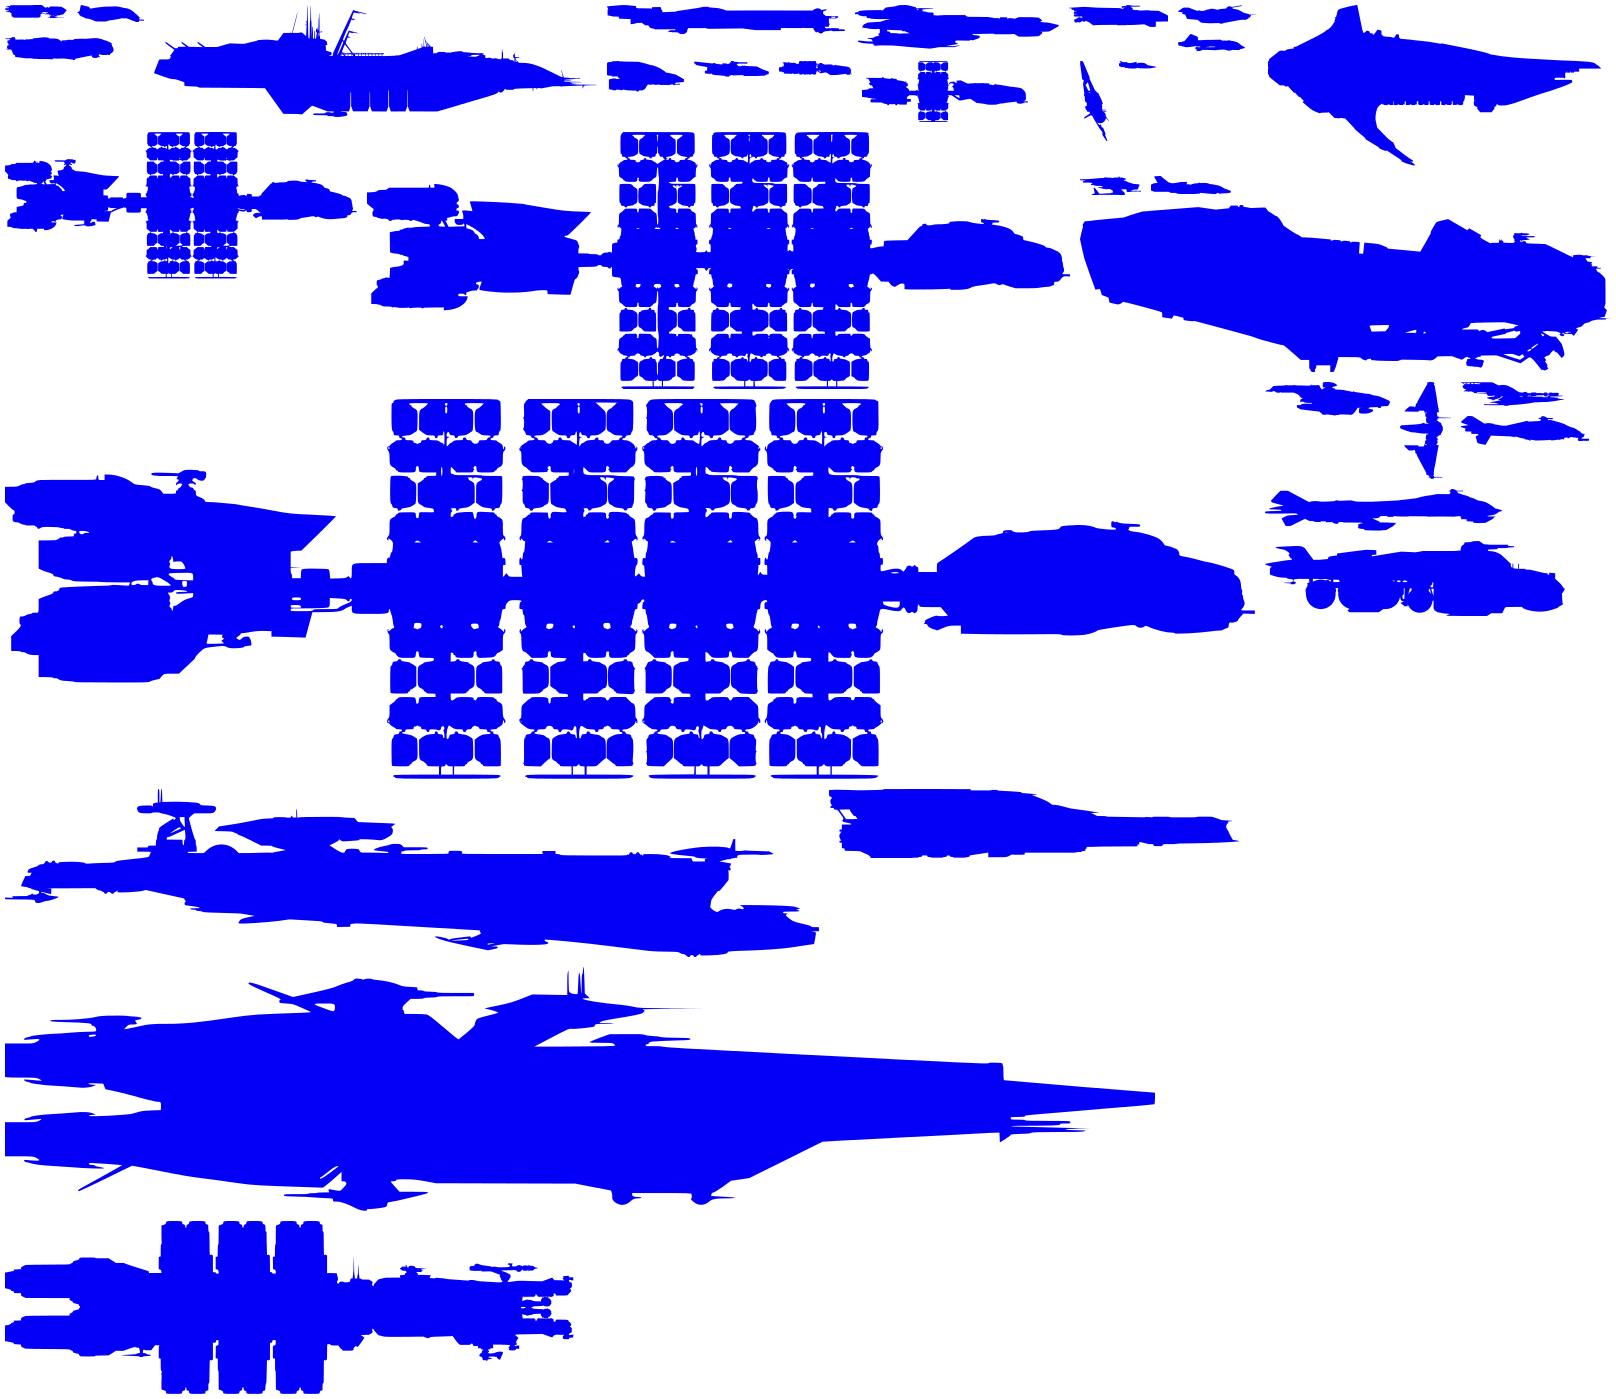
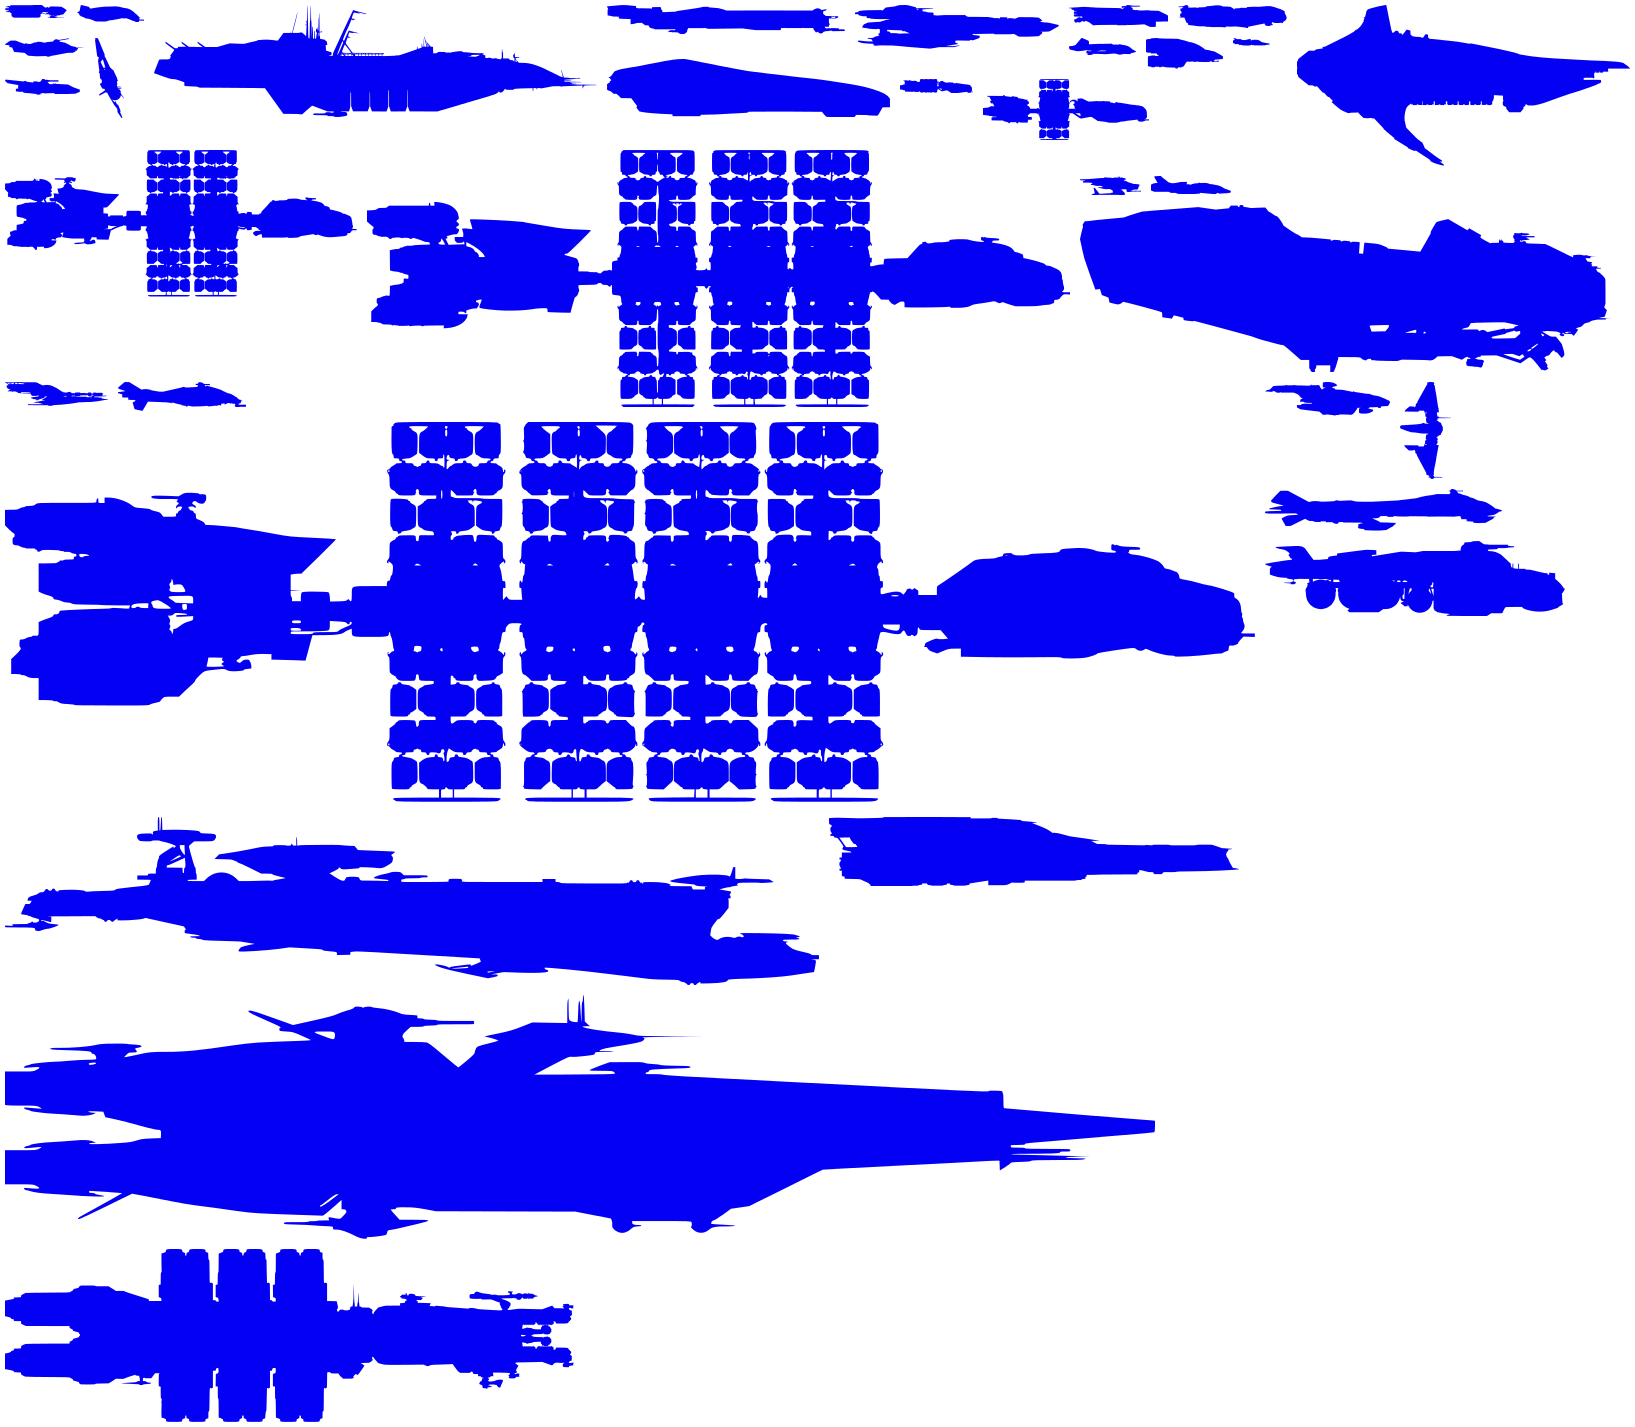
Added Genesis Starliner

diff --git a/content/styles/Ships.css b/content/styles/Ships.css
@@ -6,6 +6,7 @@
     display:inline-block;
     float:left;
 }
+
 .Aurora {
     width: 62px;
     height: 13px;
@@ -45,97 +46,103 @@
 .Freelancer {
     width: 109px;
     height: 23px;
-    background-position: -5px -37px;
+    background-position: -1178px -5px;
+}
+
+.Genesis {
+    width: 283px;
+    height: 58px;
+    background-position: -607px -59px;
 }
 
 .Gladiator {
     width: 80px;
     height: 19px;
-    background-position: -1178px -5px;
+    background-position: -5px -38px;
 }
 
 .Gladius {
     width: 67px;
     height: 17px;
-    background-position: -1178px -34px;
+    background-position: -1069px -38px;
 }
 
 .Herald {
     width: 77px;
     height: 31px;
-    background-position: -607px -61px;
+    background-position: -1146px -38px;
 }
 
 .Hornet {
     width: 75px;
     height: 16px;
-    background-position: -694px -61px;
+    background-position: -5px -79px;
 }
 
 .Hull-A {
     width: 73px;
     height: 14px;
-    background-position: -779px -61px;
+    background-position: -900px -79px;
 }
 
 .Hull-B {
     width: 166px;
     height: 61px;
-    background-position: -862px -61px;
+    background-position: -983px -79px;
 }
 
 .Hull-C {
     width: 352px;
     height: 152px;
-    background-position: -5px -132px;
+    background-position: -5px -150px;
 }
 
 .Hull-D {
     width: 703px;
     height: 262px;
-    background-position: -367px -132px;
+    background-position: -367px -150px;
 }
 
 .Hull-E {
     width: 1250px;
     height: 385px;
-    background-position: -5px -399px;
+    background-position: -5px -422px;
 }
 
 .Idris {
     width: 814px;
     height: 168px;
-    background-position: -5px -789px;
+    background-position: -5px -817px;
 }
 
 .Javelin {
     width: 1150px;
     height: 244px;
-    background-position: -5px -967px;
+    background-position: -5px -995px;
 }
 
 .Jump {
     width: 410px;
     height: 69px;
-    background-position: -829px -789px;
+    background-position: -829px -817px;
 }
 
 .Khartu {
     width: 29px;
     height: 80px;
-    background-position: -1080px -61px;
+    background-position: -95px -38px;
 }
 
 .M50 {
     width: 37px;
     height: 8px;
-    background-position: -1119px -61px;
+    background-position: -1233px -38px;
 }
 
 .Merchantman {
     width: 333px;
     height: 161px;
-    background-position: -1268px -5px;
+    background-position: -1297px -5px;
 }
 
 .Mustang {
@@ -147,7 +154,7 @@
 .Orion {
     width: 569px;
     height: 173px;
-    background-position: -5px -1221px;
+    background-position: -5px -1249px;
 }
 
 .Reclaimer {
@@ -177,7 +184,7 @@
 .Scythe {
     width: 103px;
     height: 24px;
-    background-position: -1461px -382px;
+    background-position: -5px -382px;
 }
 
 .Starfarer {
@@ -189,7 +196,7 @@
 .Vanguard {
     width: 128px;
     height: 29px;
-    background-position: -1461px -416px;
+    background-position: -118px -382px;
 }
 
 .s300i {

diff --git a/index.html b/index.html
@@ -5,7 +5,7 @@
     <script type="text/javascript" src="http://ajax.googleapis.com/ajax/libs/jquery/1.10.1/jquery.min.js"></script>
     <link href="http://fonts.googleapis.com/css?family=Electrolize" media="all" rel="Stylesheet">
     <link href="content/styles/Styles.css" media="all" type="text/css" rel="Stylesheet" />
-    <link href="content/styles/Ships.css?v=07062015" media="all" type="text/css" rel="Stylesheet" />
+    <link href="content/styles/Ships.css?v=27062015" media="all" type="text/css" rel="Stylesheet" />
     <meta name="description" content="Star Citizen Faction Poster Maker" />
     <script type="text/javascript" src="content/scripts/html2canvas.js"></script>
     <script type="text/javascript" src="content/scripts/Modernizr.js"></script>
@@ -80,6 +80,8 @@
 
             <dt>Starfarer</dt>
             <dd><input type="number" id="StarfarerShipNumber" data-shipName="Starfarer" data-shipClassName="Starfarer"/></dd>
+            <dt>Genesis</dt>
+            <dd><input type="number" id="GenesisShipNumber" data-shipName="Genesis" data-shipClassName="Genesis"/></dd>
             <dt>890 Jump</dt>
             <dd><input type="number" id="JumpShipNumber" data-shipname="890 Jump" data-shipclassname="Jump" /></dd>
             <dt>Merchantman</dt>
